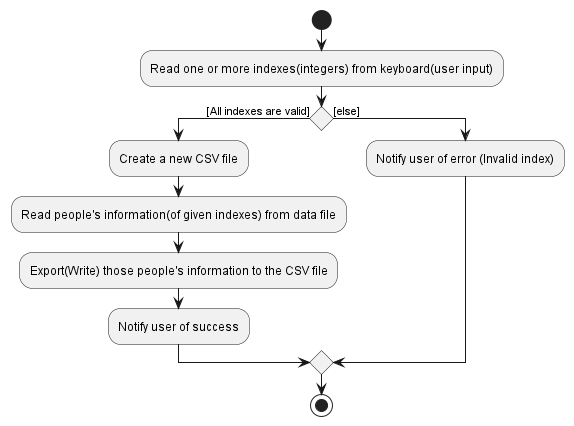
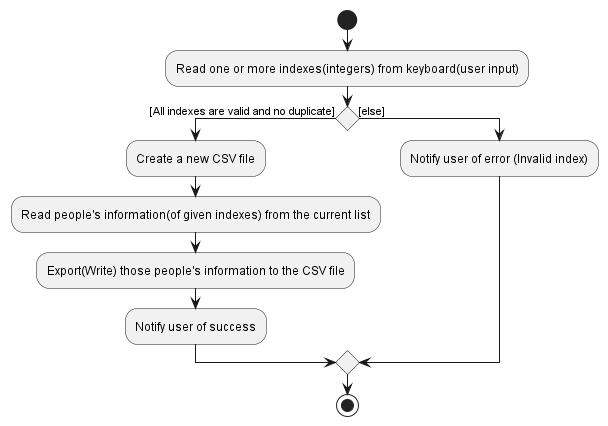
Update developer guide for link command implementation

diff --git a/docs/DeveloperGuide.md b/docs/DeveloperGuide.md
@@ -310,9 +310,40 @@ _{more aspects and alternatives to be added}_
 
 #### Implementation
 
+The `link` command allows users to export selected contacts to a CSV file. The user can first use `list` command to view all contacts
+and then use the `link` command to export the selected contacts to a CSV file. The CSV file will be saved in the
+`selectedPeople` folder in the project directory with the name `list.csv`. The file will contain selected people's name,
+email, phone number, and comments.
+
+The `LinkCommandParser` class is responsible for parsing the user input and creating instance of `LinkCommand`. The parser extracts the 
+indexes of the contacts to be exported from the user input. The parser uses `split()` method to split the user input into
+each `String`. The parser then uses `ParserUtil.parseIndex()` to parse all those `String` values into a `Index` objects. The objects are
+stored in a `List<Index>`. The parser then creates a `LinkCommand` object with the `List<Index>` and returns it. If the
+user input is invalid, the parser throws a `ParseException`. The parser method ensures that there are no duplicate indexes and that the
+indexes are within the range of the contact list.
+
+The `LinkCommand` class is responsible for executing the link command. The class uses the `Model.getFilteredPersonList()`
+to get the list of contacts. `FileUtil.createCsvFile()` is then used to create the CSV file with the given path and the
+header. The class then iterates through the list of indexes and writes the details of the contacts to the CSV file through
+`FileUtil.writeToCsvFile()`. The class then returns a `CommandResult` with the success message. User can then find the
+CSV file in the `selectedPeople` folder.
+
 The activity diagram below illustrates the flow of the `link` command.
+
 ![LinkActivity](images/LinkCommandActivityDiagram.png)
 
+#### Design considerations:
+
+- **Aspect: Exporting selected contacts:**
+
+    - **Alternative 1:** Export all contacts in the contact list.
+        - Pros: Easy to implement.
+        - Cons: May not be user-friendly as the user may not want to export all contacts. Especially sponsors may only
+          want to export talented selected contacts.
+
+    - **Alternative 2 (current choice):** Export selected contacts.
+        - Pros: More user-friendly as the user can choose which contacts to export.
+        - Cons: More complex to implement.
 ---
 
 ## **Documentation, logging, testing, configuration, dev-ops**
